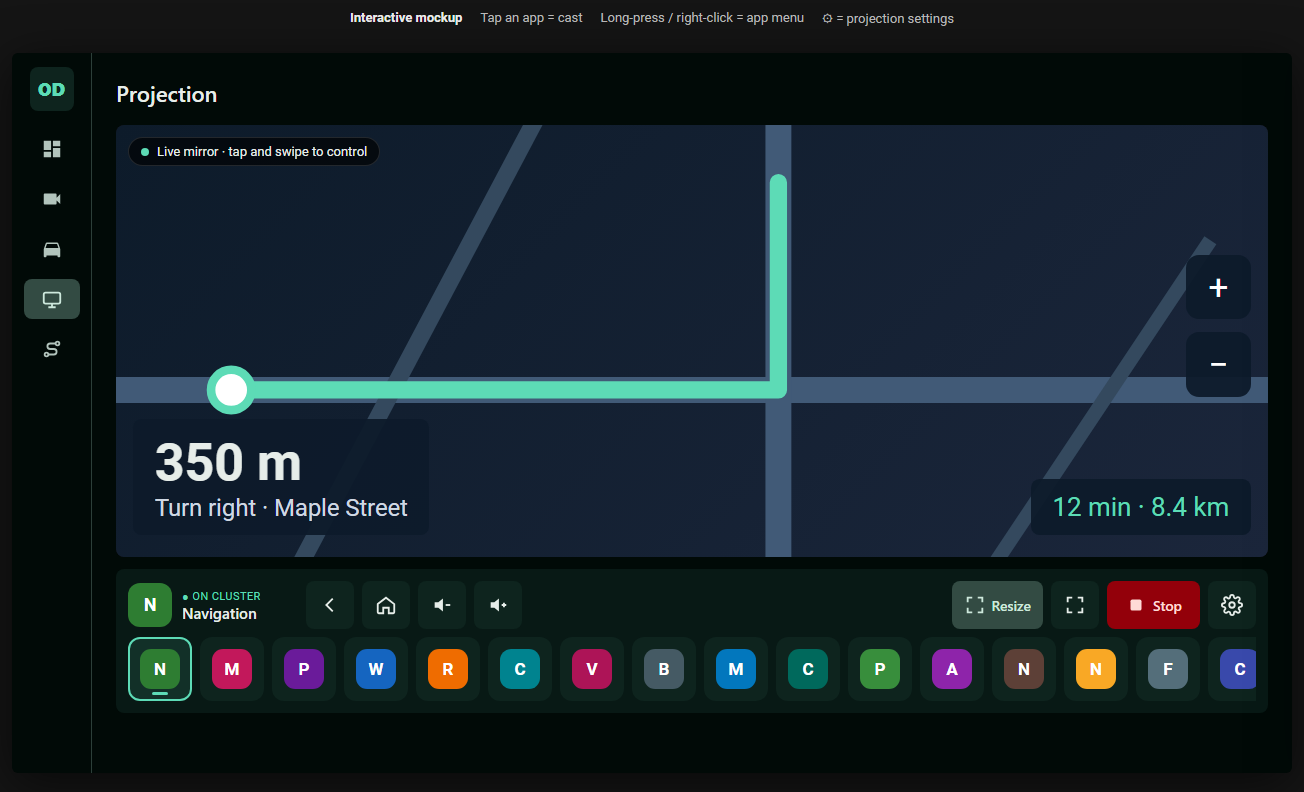
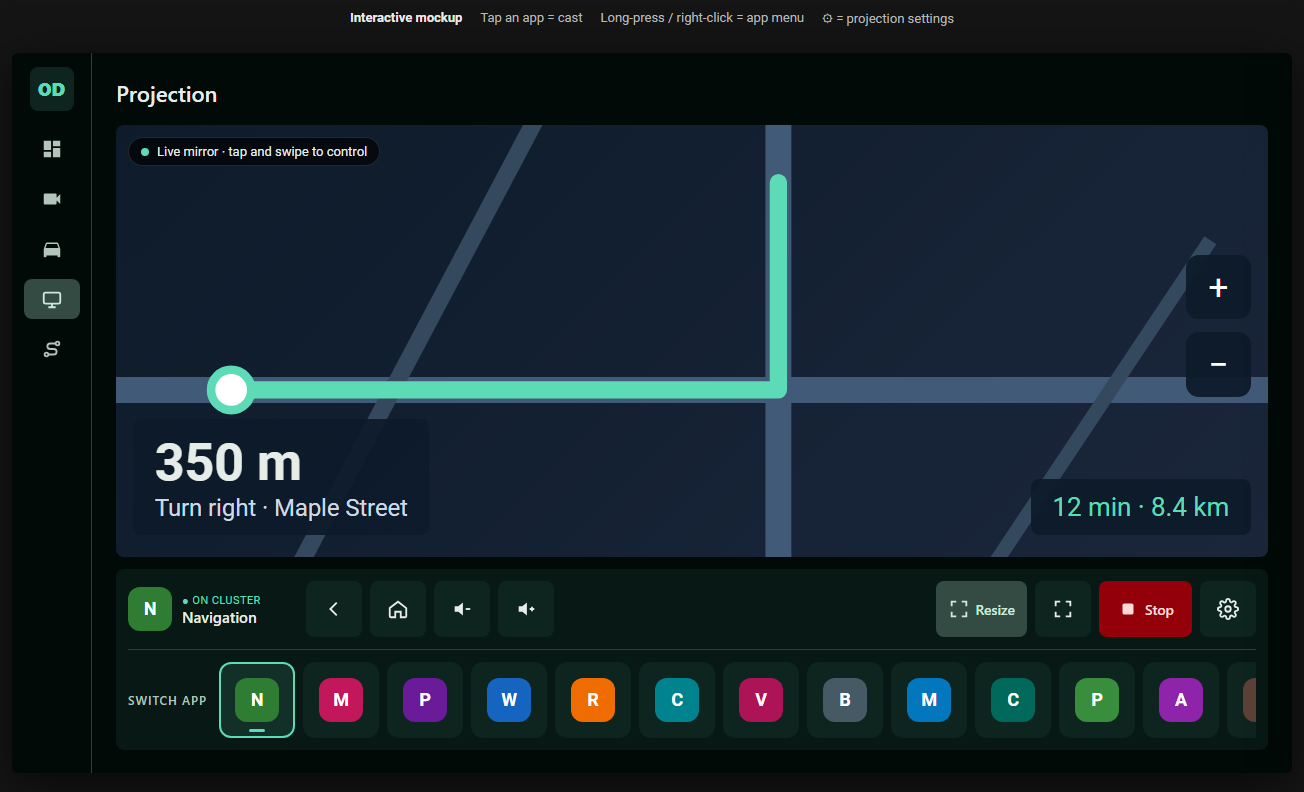
Mockup: follow the review (56dp dock, Switch app strip apart, filled star, idle notice)

Changed region(s): [[0.092, 0.7273, 0.9816, 0.9394], [0.2761, 0.7576, 0.3988, 0.7879]]

diff --git a/projection-mockup.html b/projection-mockup.html
@@ -69,12 +69,17 @@ button{font:inherit;color:inherit;border:0;background:none;cursor:pointer}
 .now .ic{width:44px;height:44px;font-size:18px;border-radius:12px}
 .now small{display:block;font-size:11px;color:var(--pri);letter-spacing:.04em}
 .now span{font-size:15px;font-weight:500;white-space:nowrap;overflow:hidden;text-overflow:ellipsis;display:block;max-width:110px}
-.cbtn{height:48px;min-width:48px;border-radius:8px;background:var(--sch);display:flex;align-items:center;justify-content:center;gap:6px;font-size:14px;padding:0 12px}
+.cbtn{height:56px;min-width:56px;border-radius:8px;background:var(--sch);display:flex;align-items:center;justify-content:center;gap:6px;font-size:14px;padding:0 12px}
 .stop{background:var(--errc);color:var(--onerrc);font-weight:500;padding:0 18px}
 .vsep{width:1px;height:48px;background:var(--ov);margin:0 6px}
 .strip{display:flex;gap:8px;overflow-x:auto;scrollbar-width:none}
-.st{width:64px;height:64px;border-radius:12px;background:var(--sch);display:grid;place-items:center;position:relative;cursor:pointer;flex:none;border:2px solid transparent;transition:transform .12s}
-.st .ic{width:40px;height:40px;font-size:17px;border-radius:11px}
+.st{width:76px;height:76px;border-radius:12px;background:var(--sch);display:grid;place-items:center;position:relative;cursor:pointer;flex:none;border:2px solid transparent;transition:transform .12s}
+.st .ic{width:44px;height:44px;font-size:18px;border-radius:12px}
+.sdiv{height:1px;background:var(--ov);margin:4px 0}
+.srow{display:flex;align-items:center;gap:12px}
+.slbl{font-size:12px;letter-spacing:.08em;text-transform:uppercase;color:var(--onv);font-weight:500;max-width:96px;flex:none}
+.notice{background:#93000A;color:#FFDAD6;border-radius:12px;padding:16px;font-size:15px;font-weight:500;margin:-4px 0 12px}
+.dimmed{opacity:.38}
 .st.live{border-color:var(--pri);background:rgba(93,219,182,.12)}
 .st.live:after{content:"";position:absolute;bottom:4px;width:16px;height:3px;border-radius:2px;background:var(--pri)}
 .st.pressing{transform:scale(.92);border-color:var(--onsec)}
@@ -179,6 +184,8 @@ button{font:inherit;color:inherit;border:0;background:none;cursor:pointer}
  <symbol id="resize" viewBox="0 0 24 24"><path fill="none" stroke="currentColor" stroke-width="2" d="M4 9V4h5M20 9V4h-5M4 15v5h5M20 15v5h-5"/></symbol>
  <symbol id="tools" viewBox="0 0 24 24"><path fill="none" stroke="currentColor" stroke-width="2" d="M14.7 6.3a4 4 0 0 0-5.4 5.4L3 18l3 3 6.3-6.3a4 4 0 0 0 5.4-5.4l-2.5 2.5-2.4-.6-.6-2.4z"/></symbol>
  <symbol id="power" viewBox="0 0 24 24"><path fill="none" stroke="currentColor" stroke-width="2" d="M12 3v8M6.3 7a8 8 0 1 0 11.4 0"/></symbol>
+ <symbol id="starf" viewBox="0 0 24 24"><path fill="currentColor" d="M12 3l2.8 5.8 6.2.9-4.5 4.4 1 6.2L12 17.4 6.5 20.3l1-6.2L3 9.7l6.2-.9z"/></symbol>
+ <symbol id="expand" viewBox="0 0 24 24"><path fill="none" stroke="currentColor" stroke-width="2" d="M6 9l6 6 6-6"/></symbol>
  <symbol id="star" viewBox="0 0 24 24"><path fill="none" stroke="currentColor" stroke-width="2" d="M12 3l2.8 5.8 6.2.9-4.5 4.4 1 6.2L12 17.4 6.5 20.3l1-6.2L3 9.7l6.2-.9z"/></symbol>
  <symbol id="dash" viewBox="0 0 24 24"><path fill="currentColor" d="M3 13h8V3H3zm0 8h8v-6H3zm10 0h8V11h-8zm0-18v6h8V3z"/></symbol>
  <symbol id="car" viewBox="0 0 24 24"><path fill="currentColor" d="M18.9 6a1.5 1.5 0 0 0-1.4-1h-11a1.5 1.5 0 0 0-1.4 1L3 12v8a1 1 0 0 0 1 1h1a1 1 0 0 0 1-1v-1h12v1a1 1 0 0 0 1 1h1a1 1 0 0 0 1-1v-8zM5 11l1.5-4.5h11L19 11z"/></symbol>
@@ -256,14 +263,16 @@ const rail = () => `<nav class="rail"><div class="brand">OD</div>
   <div class="ri on">${I('proj')}</div><div class="ri">${I('route')}</div></nav>`;
 
 function idleMain(){
+  const notice = S.notice ? `<div class="notice">Set Vehicle Mode to DiLink 5 in Diagnostics, then restart the camera service.</div>` : '';
   const fav = S.fav.map(A), rest = APPS.filter(a=>!S.fav.includes(a.id)).slice(0,12);
   return `<main>
     <header><h1>Projection</h1></header>
     <div class="hero"><div class="cl-ill">driver cluster</div>
       <div style="flex:1"><b>Tap an app to cast it to the cluster</b><span>Long-press an app for its window position, size and tools.</span></div>
       <button class="ibtn" data-act="gear" title="Projection settings">${I('gear')}</button></div>
+    ${notice}<div class="${S.notice?'dimmed':''}">
     ${fav.length ? `<div class="lbl">Favorites</div><div class="grid">${fav.map(tile).join('')}</div>` : ''}
-    <div class="lbl">All apps</div><div class="grid">${rest.map(tile).join('')}</div>
+    <div class="lbl">All apps</div><div class="grid">${rest.map(tile).join('')}</div></div>
   </main>`;
 }
 function liveMain(){
@@ -292,7 +301,9 @@ function liveMain(){
         <button class="cbtn stop" data-act="stop">${I('stop')}Stop</button>
         <button class="cbtn" data-act="gear" title="Projection settings">${I('gear')}</button>
       </div>
-      <div class="strip">${stripIds.map(id=>`<div class="st ${id===a.id?'live':''}" data-app="${id}" title="${A(id).name}">${icon(A(id))}</div>`).join('')}</div>
+      <div class="sdiv"></div>
+      <div class="srow"><span class="slbl">Switch app</span>
+        <div class="strip">${stripIds.map(id=>`<div class="st ${id===a.id?'live':''}" data-app="${id}" title="${A(id).name}">${icon(A(id))}</div>`).join('')}</div></div>
     </div>
   </main>
   <div class="fsbar">
@@ -311,7 +322,7 @@ function menuHtml(){
     <div class="sep"></div>
     <button class="item" data-act="resize">${I('resize')}<span>Resize</span><small>on the mirror</small></button>
     <button class="item" data-act="tools">${I('tools')}<span>App tools</span><small>App DPI, keyboard</small></button>
-    <button class="item" data-act="fav">${I('star')}<span>${fav?'Remove from favorites':'Add to favorites'}</span></button>
+    <button class="item" data-act="fav">${I(fav?'starf':'star')}<span>${fav?'Remove from favorites':'Add to favorites'}</span></button>
     ${isLive ? `<button class="cta danger" data-act="stop">${I('stop')}Stop casting</button>`
              : `<button class="cta" data-act="cast">${I('cast')}Cast to cluster</button>`}`;
 }
@@ -327,7 +338,7 @@ function drawerHtml(){
     ${row('aspect','Keep cluster aspect','When resizing a window')}
     <div class="sep"></div>
     <div class="row" data-act="layouts">${I('dash')}<span>Layouts<small>Show several apps on the cluster at once</small></span><span style="flex:none;font-size:20px;color:var(--onv)">›</span></div>
-    <div class="row" data-act="adv">${I('tools')}<span>Advanced<small>Cluster transport · ${({auto:'Auto',legacy:'Legacy',dilink5:'DiLink 5'})[S.transport]}</small></span><span style="flex:none;font-size:20px;color:var(--onv)">${S.adv?'▾':'›'}</span></div>
+    <div class="row" data-act="adv">${I('tools')}<span>Advanced<small>Cluster transport · ${({auto:'Auto',legacy:'Legacy',dilink5:'DiLink 5'})[S.transport]}</small></span><span style="flex:none;color:var(--onv);display:grid;transform:rotate(${S.adv?180:0}deg)">${I('expand')}</span></div>
     <div class="adv ${S.adv?'show':''}">
       <div class="note">Which OEM protocol drives the cluster. Auto detects it from the firmware; change this only if casting fails.</div>
       ${seg('transport',[['auto','Auto'],['legacy','Legacy'],['dilink5','DiLink 5']])}
@@ -472,6 +483,8 @@ const H = new URLSearchParams(location.hash.slice(1));
 if (H.get('live')) S.live = H.get('live');
 if (H.get('adjust')) S.adjust = true;
 if (H.get('drawer')) S.drawer = true;
+if (H.get('notice')) S.notice = true;
+if (H.get('adv')) S.adv = true;
 fit(); render();
 if (H.get('menu')) openMenu(H.get('menu'), document.querySelector(`[data-app="${H.get('menu')}"]`));
 </script>
